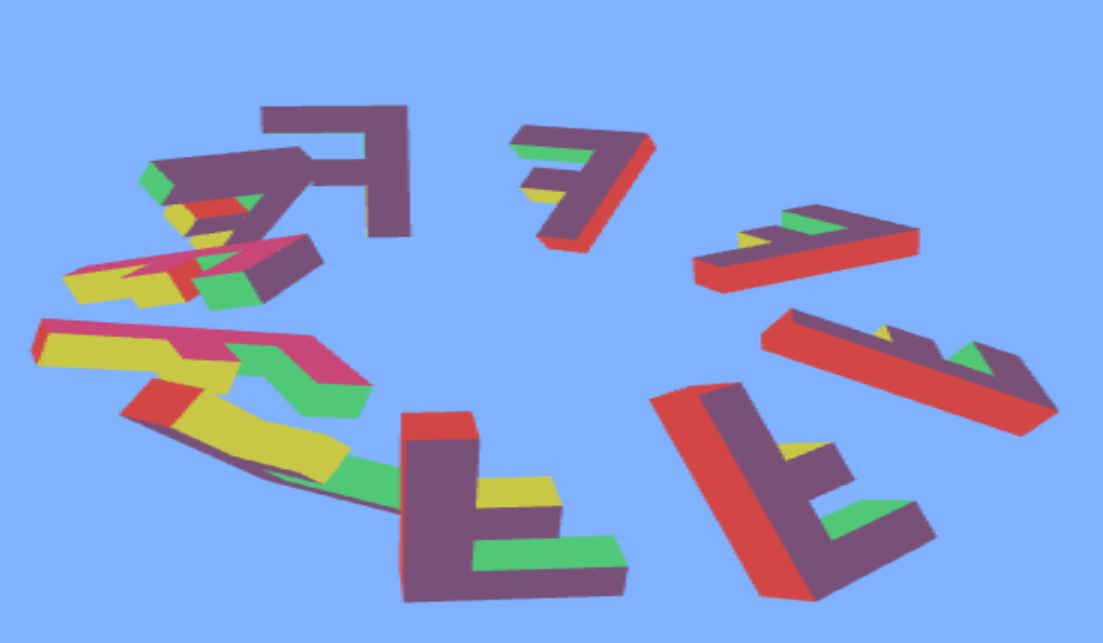
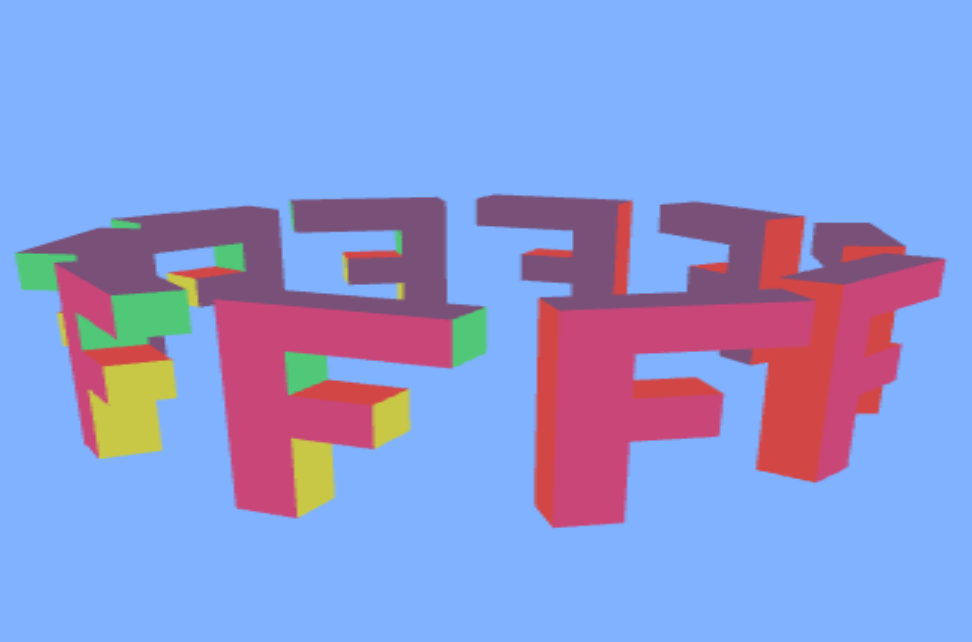
V183- correction des F qui tournent

diff --git a/projets/WebGL/detail.html b/projets/WebGL/detail.html
@@ -94,10 +94,6 @@
                                 <img src="scene1.png" alt="Illustration scène 3D">
                             </div>
 
-                            <div class="swiper-slide">
-                                <img src="scene2.png" alt="Illustration caméra perspective">
-                            </div>
-
                         </div>
                         <div class="swiper-pagination"></div>
                     </div>

diff --git a/projets/WebGL/app/f-henge-0.5.js b/projets/WebGL/app/f-henge-0.5.js
@@ -130,7 +130,7 @@ function draw() {
     let u_modelViewMatrix = math.multiply(
       translation(x, 0, z),
       yRotation(rotationY),
-      xRotation(time * 100 * RAD + (i * 0.6))
+      xRotation(degToRad(-1)),
     );
     u_modelViewMatrix = cleanArray(u_modelViewMatrix);
 
